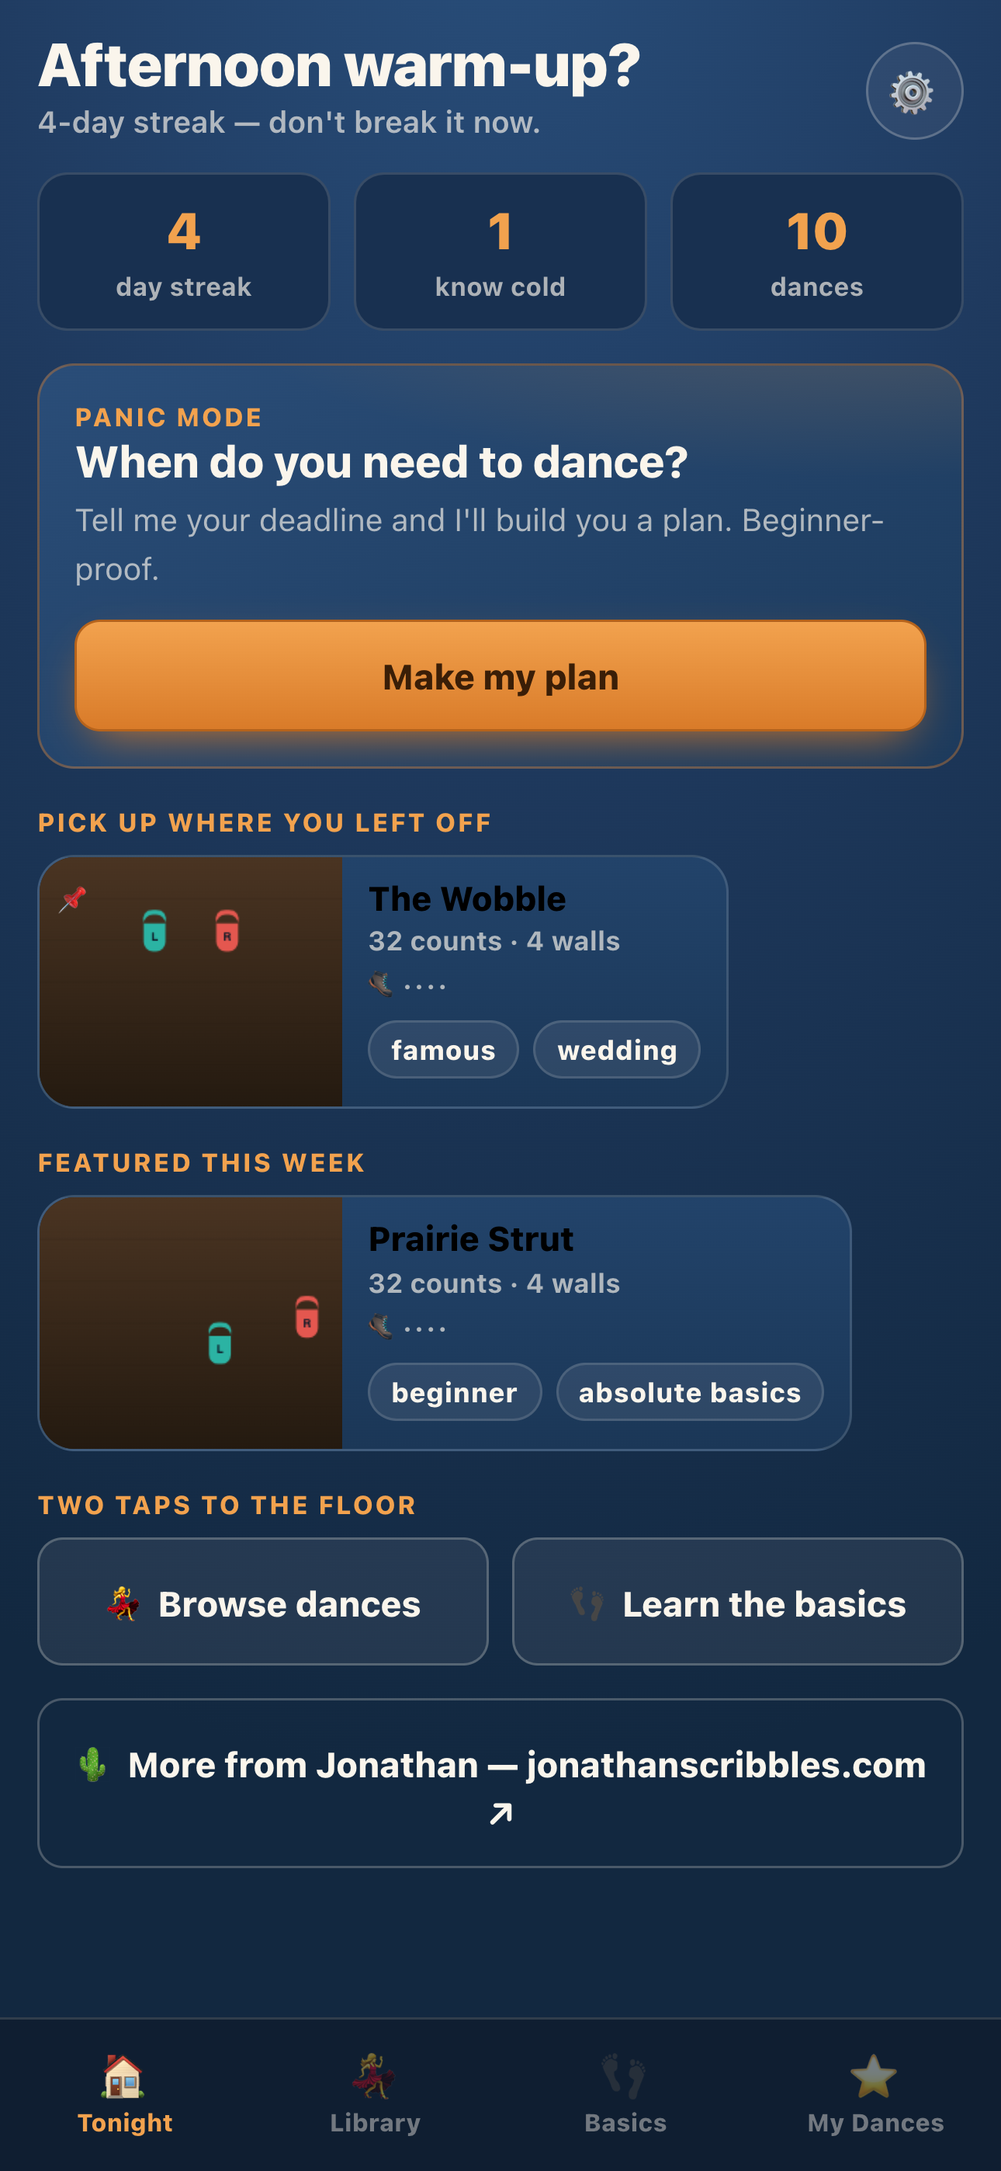
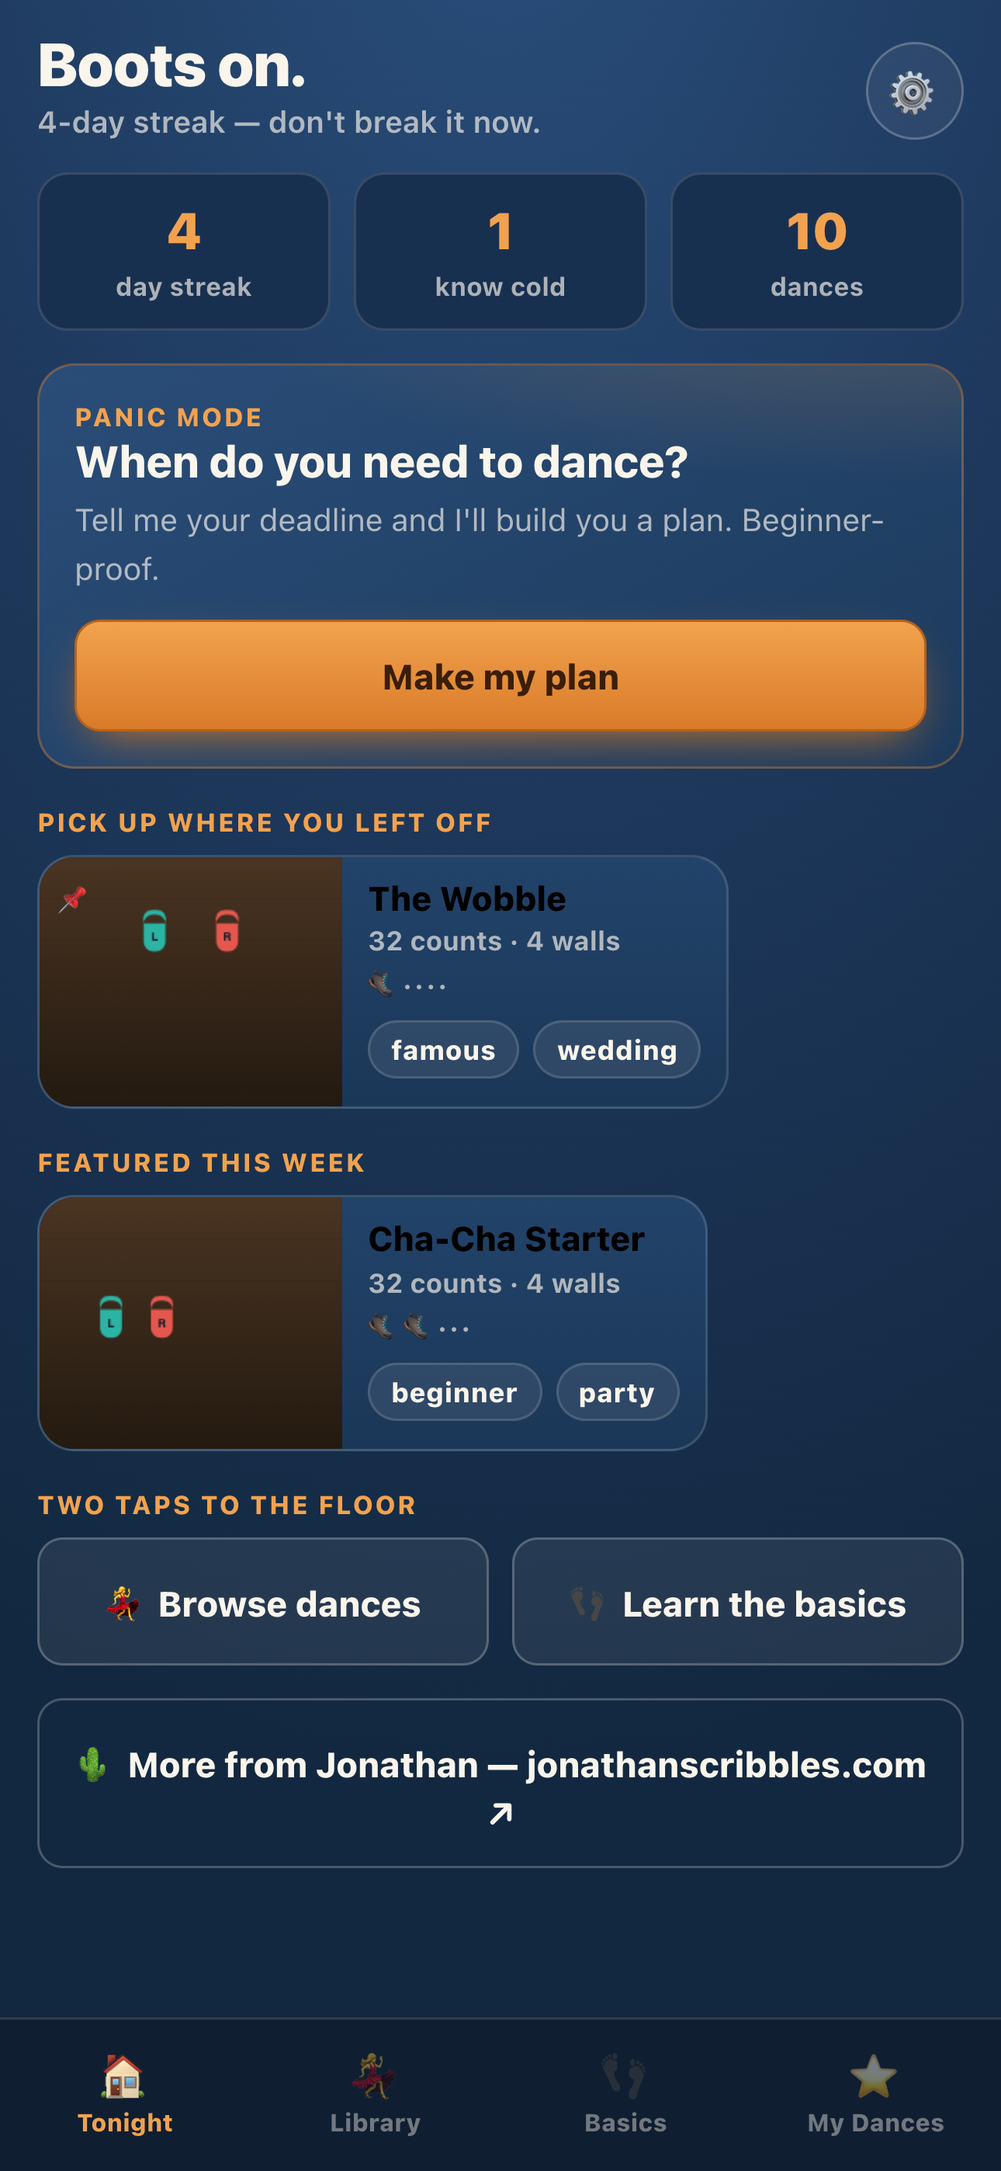
Apple review hardening: stop denying the app plays the record, and fix the primary control that fell below the fold on the iPad review surface
Pulled from review for a resubmit, so this is the pass over the failure modes
that have actually bitten this app factory.

METADATA / PRIVACY (2.3.1, 5.1.1(i)) — the significant one.
Three places claimed ScootSteps plays no copyrighted music:
  * the App Store description  ("No copyrighted music.")
  * the reviewer notes         ("No copyrighted audio")
  * the published privacy page ("does not play copyrighted recordings")
  * the Dance Detail screen    ("we play an original count track, never the record")
All four are false, and have been since the player gained its Song button. Tap a
dance, tap Song, and Apple's 30-second preview of the actual record loops — the
Detail screen even prints the denial directly above the Preview buttons that
disprove it. Two taps for a reviewer; a self-contradiction they resolve as a
rejection.

The distinction that is actually true is between audio the app CREATES and audio
it STREAMS: the practice count track is synthesized on device and no recording is
bundled, hosted or copied; separately, the app plays Apple's own official preview
and links out to the full track. Everything now says that instead. The network
description was stale too — preview URLs are baked at build time now, so the
ordinary tap goes straight to Apple's audio CDN and never touches the Search API.

LAYOUT (2.1(a), the Bull or Bust shape).
Learn mode's control stack is ~419px inside a 192px scroll region on a 320x568
[…]

diff --git a/www/js/app.js b/www/js/app.js
@@ -545,11 +545,22 @@
   function openDetail(id) {
     var d = byId[id]; if (!d) return;
     var v = $("#view-detail");
+    // The href is emitted with JSON.stringify instead of being concatenated between two quote
+    // characters. It quotes and escapes the URL properly (these come from bundled data, but an
+    // unescaped value dropped into an attribute is a habit worth not having), and it keeps the
+    // source free of an href attribute opened and immediately closed by the concatenation quote —
+    // a sequence the review-readiness scanner reads as an empty/placeholder href, i.e. a dead link.
+    function anchor(url, extra, style, label) {
+      return '<a href=' + JSON.stringify(String(url || "")) + (extra ? ' ' + extra : '') +
+             ' target="_blank" rel="noopener" style="' + style + '">' + label + '</a>';
+    }
     var songHtml = (d.songs || []).map(function (s, i) {
       var pid = d.id + "_" + i;
       return '<div style="display:flex;align-items:center;justify-content:space-between;gap:10px;padding:11px 0;border-top:1px solid var(--line)">' +
         '<div style="min-width:0"><b style="font-weight:800">' + esc(s.title) + '</b>' +
-        '<div class="p">' + esc(s.artist) + ' · <a href="' + s.apple + '" data-applelink="' + pid + '" target="_blank" rel="noopener" style="color:var(--amber-bright);font-weight:700">Apple Music</a> · <a href="' + s.spotify + '" target="_blank" rel="noopener" style="color:var(--muted);font-weight:700">Spotify</a></div></div>' +
+        '<div class="p">' + esc(s.artist) + ' · ' +
+        anchor(s.apple, 'data-applelink="' + pid + '"', 'color:var(--amber-bright);font-weight:700', 'Apple Music') + ' · ' +
+        anchor(s.spotify, '', 'color:var(--muted);font-weight:700', 'Spotify') + '</div></div>' +
         '<button class="chip prevbtn" data-prev="' + pid + '" data-title="' + esc(s.title) + '" data-artist="' + esc(s.artist) + '" aria-label="Play 30-second preview of ' + esc(s.title) + '">▶ Preview</button>' +
         '</div>';
     }).join('');
@@ -567,7 +578,10 @@
       (d.famous ? '<span class="chip amber">Famous</span>' : '') + '</div>';
     html += '<div class="chips" style="margin-bottom:10px">' + (d.tags || []).map(function (t) { return '<span class="chip">' + esc(t) + '</span>'; }).join('') + '</div>';
     if (d.definition) html += '<div class="p" style="margin-bottom:12px">' + esc(d.definition) + '</div>';
-    html += '<div class="p" style="margin-bottom:14px">Choreography: ' + esc(d.choreographer_credit) + '. Songs referenced for practice only — we play an original count track, never the record.</div>';
+    // This line used to read "we play an original count track, never the record" — with the ▶ Preview
+    // buttons that play Apple's clip of the record sitting directly beneath it on the same screen.
+    // A claim the screen itself disproves is a 2.3.1 metadata problem; say what actually happens.
+    html += '<div class="p" style="margin-bottom:14px">Choreography: ' + esc(d.choreographer_credit) + '. The practice audio is our own count track. Preview plays Apple’s official 30-second clip of the record — tap Apple Music for the full song.</div>';
     html += '<button class="btn primary" id="d-learn" style="margin-bottom:10px">🎓 Start learning</button>';
     html += '<button class="btn" id="d-watch">▶ Watch full</button>';
     // There is no "download" button because there is nothing to download: every dance, diagram and
@@ -909,7 +923,10 @@
     // iOS ACTUALLY granted (not the one we asked for), so the silent-switch fix can be confirmed on
     // a real phone without attaching Xcode. See scripts/patch-ios-audio.sh.
     html += '<div class="card"><b style="font-weight:800">Audio output</b><div class="p">' + audioSessionLine() + '</div></div>';
-    html += '<div class="card"><b style="font-weight:800">Privacy</b><div class="p" style="margin:2px 0 9px">No account, no ads, no analytics. Your streak, your shelf and your settings are saved on this phone. Tapping Preview asks Apple\'s public iTunes search for the song — nothing about you goes with it.</div><button class="btn sm" id="set-privacy">Privacy policy ↗</button></div>';
+    // Kept in step with the published policy. Previews are BAKED at build time now, so the ordinary
+    // tap streams Apple's clip straight from their audio CDN and never touches the search API —
+    // describing only the search call would understate what the app does on the network.
+    html += '<div class="card"><b style="font-weight:800">Privacy</b><div class="p" style="margin:2px 0 9px">No account, no ads, no analytics. Your streak, your shelf and your settings are saved on this phone. Preview and Song stream Apple’s official 30-second clip from Apple’s servers — nothing about you goes with the request.</div><button class="btn sm" id="set-privacy">Privacy policy ↗</button></div>';
     html += '<div class="card"><b style="font-weight:800">More from Jonathan</b><div class="p" style="margin:2px 0 9px">Art, stories, and what\'s next.</div><button class="btn sm" id="set-web">Visit jonathanscribbles.com ↗</button></div>';
     html += '<div class="p" style="text-align:center;margin-top:18px;line-height:1.6">ScootSteps · learn to line dance<br>Made with real boots. Support: jonathanbbiles@gmail.com</div>';
     v.innerHTML = html;

diff --git a/www/index.html b/www/index.html
@@ -113,7 +113,10 @@ button{font-family:inherit;cursor:pointer}
 .compass{position:absolute;top:10px;left:10px;display:flex;align-items:center;gap:6px;padding:6px 9px;border-radius:999px;background:rgba(13,24,38,.55);backdrop-filter:blur(6px);border:1px solid var(--line-2);font-size:11px;font-weight:800}
 .compass .dot{width:8px;height:8px;border-radius:2px;background:var(--amber)}
 .phrasetag{position:absolute;top:10px;right:10px;padding:6px 10px;border-radius:999px;background:rgba(13,24,38,.55);border:1px solid var(--line);font-size:11px;font-weight:800;color:var(--amber-bright);max-width:60%;text-align:right}
-.cue{position:absolute;left:50%;top:16px;transform:translateX(-50%) translateY(-8px);background:rgba(234,216,255,.18);border:1px solid rgba(234,216,255,.55);color:var(--rhinestone);padding:6px 13px;border-radius:999px;font-size:13px;font-weight:800;white-space:nowrap;opacity:0;transition:.18s;pointer-events:none;text-shadow:0 1px 6px #000}
+/* top:16px put the cue chip straight through the compass and the phrase tag on a 320px-wide
+   screen (both pills live on the row above). Sit it below them instead — it clears at every width
+   and the stage is never short enough for 48px to crowd the boots. */
+.cue{position:absolute;left:50%;top:48px;transform:translateX(-50%) translateY(-8px);background:rgba(234,216,255,.18);border:1px solid rgba(234,216,255,.55);color:var(--rhinestone);padding:6px 13px;border-radius:999px;font-size:13px;font-weight:800;white-space:nowrap;opacity:0;transition:.18s;pointer-events:none;text-shadow:0 1px 6px #000}
 .cue.show{opacity:1;transform:translateX(-50%) translateY(0)}
 .instr{display:flex;align-items:center;gap:12px;background:var(--denim-2);border:1px solid var(--line);border-radius:14px;padding:9px 13px;margin:10px 0}
 .cchip{flex:0 0 auto;width:44px;height:44px;border-radius:11px;display:flex;align-items:center;justify-content:center;font-size:calc(21px*var(--textScale));font-weight:900;color:#3a1e07;background:var(--amber)}
@@ -262,20 +265,28 @@ button:focus-visible,input:focus-visible,a:focus-visible{outline:3px solid var(-
         <button class="pbtn" id="p-rotate" aria-label="Play through all walls once">🧭 All walls</button>
       </div>
     </div>
-    <!-- LEARN / DRILL: pick what to practise -->
+    <!-- LEARN / DRILL: pick what to practise.
+         TRANSPORT FIRST, PICKER SECOND — deliberately, and not for looks. This stack is ~419px
+         tall and on a 320x568 screen the scroll region that holds it is 192px, which put "▶ Play
+         section" — the primary action of the whole mode — entirely below the fold behind a
+         scrollbar-less overflow. That is also the surface Apple reviews an iPhone-only app on:
+         the scaled iPhone-compatibility window on an iPad. A primary control that isn't on screen
+         reads as a dead mode (Guideline 2.1(a)); it is what the Bull or Bust rejection was.
+         The play button names the current selection ("▶ Play 1–8"), so putting it above the
+         picker still tells the learner exactly what is about to play. -->
     <div id="ctl-learn" class="hide">
-      <button class="wholebtn" id="p-whole" aria-pressed="false">🔁 Practise the WHOLE dance</button>
-      <div class="seclabel">…or drill one 8-count</div>
-      <div id="p-sections" style="margin-bottom:10px" role="group" aria-label="Pick a section to drill"></div>
       <div class="prow" style="margin-bottom:9px">
         <button class="pbtn" id="p-prev" aria-label="Previous count">‹ Step</button>
         <button class="pbtn primary" id="p-step-play">▶ Play section</button>
         <button class="pbtn" id="p-next" aria-label="Next count">Step ›</button>
       </div>
-      <div class="prow">
+      <div class="prow" style="margin-bottom:9px">
         <button class="pbtn on" id="p-loop">🔁 Loop: On</button>
         <button class="pbtn on" id="p-ghost">👣 Ghost: On</button>
       </div>
+      <button class="wholebtn" id="p-whole" aria-pressed="false">🔁 Practise the WHOLE dance</button>
+      <div class="seclabel">…or drill one 8-count</div>
+      <div id="p-sections" role="group" aria-label="Pick a section to drill"></div>
     </div>
     <!-- shared tempo (both modes) -->
     <div class="tempo" style="margin-top:10px">

diff --git a/docs/privacy-policy.html b/docs/privacy-policy.html
@@ -1,0 +1,71 @@
+<!doctype html>
+<html lang="en">
+<head>
+<meta charset="utf-8"/>
+<meta name="viewport" content="width=device-width, initial-scale=1"/>
+<title>ScootSteps — Privacy &amp; Support</title>
+<style>
+body{max-width:680px;margin:40px auto;padding:0 20px;font-family:-apple-system,BlinkMacSystemFont,system-ui,sans-serif;
+  color:#FAF5EC;background:#1F3A5F;line-height:1.6}
+h1{font-size:26px} h2{font-size:18px;margin-top:28px} a{color:#F2A24E}
+.muted{color:#9DB2CC;font-size:14px}
+</style>
+</head>
+<body>
+<h1>ScootSteps — Privacy Policy &amp; Support</h1>
+<p class="muted">Last updated: 14 August 2026</p>
+
+<p>Learn to line dance with animated, top-down footwork diagrams. Ten full dances, every foundation
+step, and a count track that keeps you on the beat.</p>
+
+<h2>Support</h2>
+<p>Questions, bugs, or a dance you'd like added? Email
+<a href="mailto:jonathanbbiles@gmail.com">jonathanbbiles@gmail.com</a>. I read every one.</p>
+
+<h2>The short version</h2>
+<p><strong>ScootSteps doesn't collect anything about you.</strong> There is no account, no sign-in,
+no ads, no analytics, no tracking, and no third-party advertising or analytics SDK of any kind.</p>
+
+<h2>What ScootSteps stores</h2>
+<p>Your streak, which dances you've marked as "learning" or "know it cold", your practice history,
+and your settings (count sound, haptics, text size) are saved in the app's own storage on your
+device. That information is never transmitted to me or to anyone else. Deleting the app deletes it.</p>
+
+<h2>The only thing that leaves your phone</h2>
+<p>Every dance, every diagram and the count track are built into the app and work with no signal.
+The songs are the exception. ScootSteps ships with the address of each song's official Apple
+30-second preview already built in, so when you tap <strong>Preview</strong> on a dance page or the
+<strong>Song</strong> button in the player, the app streams that clip directly from Apple's audio
+servers (<code>audio-ssl.itunes.apple.com</code>). If a song's address isn't built in, the app asks
+Apple's public iTunes Search API (<code>itunes.apple.com</code>) for it using only the song title and
+artist. Tapping the Apple Music or Spotify link hands that link to those apps.</p>
+<p>Nothing about you or your device is included in any of that — no account, no identifier, no
+location, no advertising ID. Apple's and Spotify's handling of what you send them is governed by
+their own privacy policies. Those song features are the only reason ScootSteps ever reaches the
+internet.</p>
+
+<h2>Music</h2>
+<p>ScootSteps does not host, copy or distribute any recording. The practice audio the app produces
+itself is an original count track, synthesized on the phone — that is what plays under the animated
+footwork, and it is the only audio the app creates.</p>
+<p>Alongside it, ScootSteps offers Apple's own official 30-second preview of the commercial
+recording each dance is danced to. That clip is streamed from Apple, exactly as Apple publishes it,
+and every song is accompanied by a link that opens the full track on Apple Music so you can buy or
+stream it there. ScootSteps is not affiliated with or endorsed by Apple, Spotify, or any artist or
+label; song and artist names are used to identify the recordings a dance is danced to.</p>
+
+<h2>In-app purchases</h2>
+<p>There are none. ScootSteps is free, and every dance in it is included — nothing is locked, and the
+app never asks you for money.</p>
+
+<h2>Children</h2>
+<p>ScootSteps is rated 4+ and is safe for all ages. Because it collects no personal information from
+anyone, it collects none from children.</p>
+
+<h2>Changes</h2>
+<p>If this policy ever changes, the updated version will be posted on this page with a new date.</p>
+
+<h2>Contact</h2>
+<p><a href="mailto:jonathanbbiles@gmail.com">jonathanbbiles@gmail.com</a></p>
+</body>
+</html>

diff --git a/docs/privacy-policy.md b/docs/privacy-policy.md
@@ -48,19 +48,32 @@ sound, haptics, text size) are saved in the app's own storage on your device.
 That information is never transmitted to me or to anyone else. Deleting the app
 deletes it.
 
-**The one thing that leaves your phone.** Every dance, diagram and count tick is
-built into the app and works with no signal. The exception is the song list on a
-dance page: if you tap **Preview**, the app sends that song's title and artist to
-Apple's public iTunes Search API (`itunes.apple.com`) in order to play Apple's
-own 30-second preview and to link to the song on Apple Music or Spotify. Nothing
-about you or your device is included in that request, and no identifier is
-attached to it. Apple's handling of that request is governed by Apple's privacy
-policy. If you never tap Preview or a song link, ScootSteps makes no network
-requests at all.
+**The only thing that leaves your phone.** Every dance, every diagram and the
+count track are built into the app and work with no signal. The songs are the
+exception. ScootSteps ships with the address of each song's official Apple
+30-second preview already built in, so when you tap **Preview** on a dance page
+or the **Song** button in the player, the app streams that clip directly from
+Apple's audio servers (`audio-ssl.itunes.apple.com`). If a song's address isn't
+built in, the app asks Apple's public iTunes Search API (`itunes.apple.com`) for
+it using only the song title and artist. Tapping the Apple Music or Spotify link
+hands that link to those apps.
 
-**Music.** ScootSteps does not play copyrighted recordings. The audio you hear
-during practice is a count track synthesized by the app. Song titles are listed
-as references so you can practise to the real record in your own music app.
+Nothing about you or your device is included in any of that — no account, no
+identifier, no location, no advertising ID. Apple's and Spotify's handling of
+what you send them is governed by their own privacy policies. Those song
+features are the only reason ScootSteps ever reaches the internet.
+
+**Music.** ScootSteps does not host, copy or distribute any recording. The
+practice audio the app produces itself is an original count track, synthesized on
+the phone — that is what plays under the animated footwork, and it is the only
+audio the app creates.
+
+Alongside it, ScootSteps offers Apple's own official 30-second preview of the
+commercial recording each dance is danced to. That clip is streamed from Apple,
+exactly as Apple publishes it, and every song is accompanied by a link that opens
+the full track on Apple Music so you can buy or stream it there. ScootSteps is
+not affiliated with or endorsed by Apple, Spotify, or any artist or label; song
+and artist names are used to identify the recordings a dance is danced to.
 
 **Children.** ScootSteps is rated 4+ and is safe for all ages. Because it
 collects no personal information from anyone, it collects none from children.

diff --git a/APP-STORE-LISTING.md b/APP-STORE-LISTING.md
@@ -45,13 +45,18 @@ WHAT'S INSIDE
 • Wall compass + mirror view (taught like a real class)
 • The dances work with no signal — every step is built in, nothing to download
 • Grapevine, jazz box, shuffle, pivot and more, broken down slow
+• Hear the real song too — Apple's official 30-second preview, one tap from the full track
 
-No confusing videos. No copyrighted music. Just you, two boots, and a very good Friday night.
+No confusing videos. Just you, two boots, and a very good Friday night.
 ```
 
 ## App Review notes (guards against a 4.2 "minimum functionality" flag)
 ```
-ScootSteps teaches line dancing via an original in-house animation engine that renders each dance from structured step data (not videos). To review: open any dance → "Start learning" → step through the 8-count chunks, or "Watch full" and drag the tempo slider. Every dance, diagram and the count track are bundled in the app and work with no network. No login required. No copyrighted audio — the app plays a synthesized count track only; song titles are references, and the optional "Preview" button plays Apple's own 30-second iTunes preview (those buttons are the only feature that needs the internet, and they fail gracefully offline). This build contains NO in-app purchases: no paywall, no products, no Restore control.
+ScootSteps teaches line dancing via an original in-house animation engine that renders each dance from structured step data (not videos). To review: open any dance → "Start learning" → step through the 8-count chunks, or "Watch full" and drag the tempo slider. Every dance, diagram and the count track are bundled in the app and work with no network. No login required.
+
+AUDIO: two separate layers, and the distinction matters. (1) The practice audio ScootSteps generates is an ORIGINAL count track, synthesized on device — no recording is bundled, hosted or copied. (2) The optional "Preview" button on a dance page and the "Song" button in the player stream Apple's OWN official 30-second preview of the commercial recording, straight from Apple's servers, and every song carries a one-tap link that opens the full track in the user's music service. Those buttons are the only feature that needs the internet and they fail gracefully offline. ScootSteps is not affiliated with or endorsed by any music service, artist or label; song and artist names identify the recording each dance is danced to.
+
+This build contains NO in-app purchases: no paywall, no products, no Restore control.
 ```
 
 ## Screenshots (iPhone 6.7" = 1290×2796; 6.5" = 1284×2778). iPhone-only → NO iPad set required.
